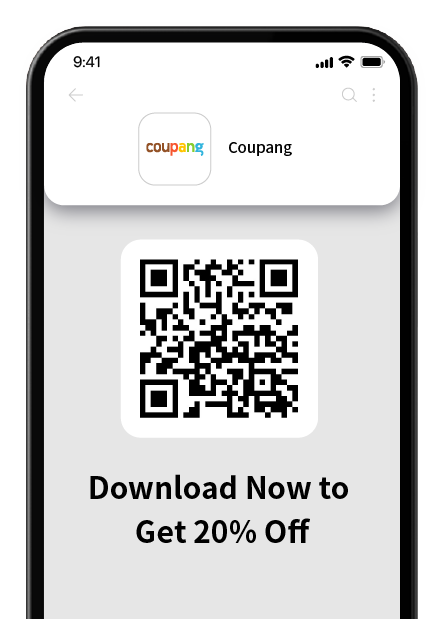
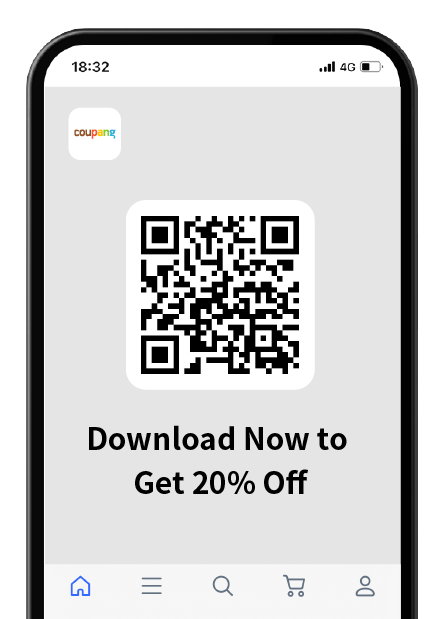
update images and disclaimer

diff --git a/tw/index_tw.html b/tw/index_tw.html
@@ -493,8 +493,12 @@
                 <li><a href="https://lightspeed.app.link/D9DXd6I56qb" target="_blank" rel="noreferrer noopener"><img src="images/google-play.png" alt="Google Play"></a></li>
               </ul>
             </div>
-
           </div>
+          
+          <div class="text-end attention">
+            <p><sup>*</sup> 商品實際價格請依酷澎APP內公告為主</p>
+          </div>
+          
         </div>
       </div>
     </section>

diff --git a/tw/index_en.html b/tw/index_en.html
@@ -527,6 +527,7 @@
           <div class="text-end attention">
             <p><sup>*</sup> Order value threshold applies. Please refer to the app for more information.</p>
             <p><sup>*</sup> Delivery time may vary depending on your shipment location.</p>
+            <p><sup>*</sup> Prices are subject to change. Please refer to the Coupang App for the most updated price.</p>
           </div>
         </div>
       </div>

diff --git a/tw/css/style-tw.css b/tw/css/style-tw.css
@@ -17,8 +17,7 @@ body {
 
 sup{
     font-weight: 300;
-    font-size: 22px;
-    top: -0.7em;
+    font-size: 70%;
 }
 
 a.next-section svg {
